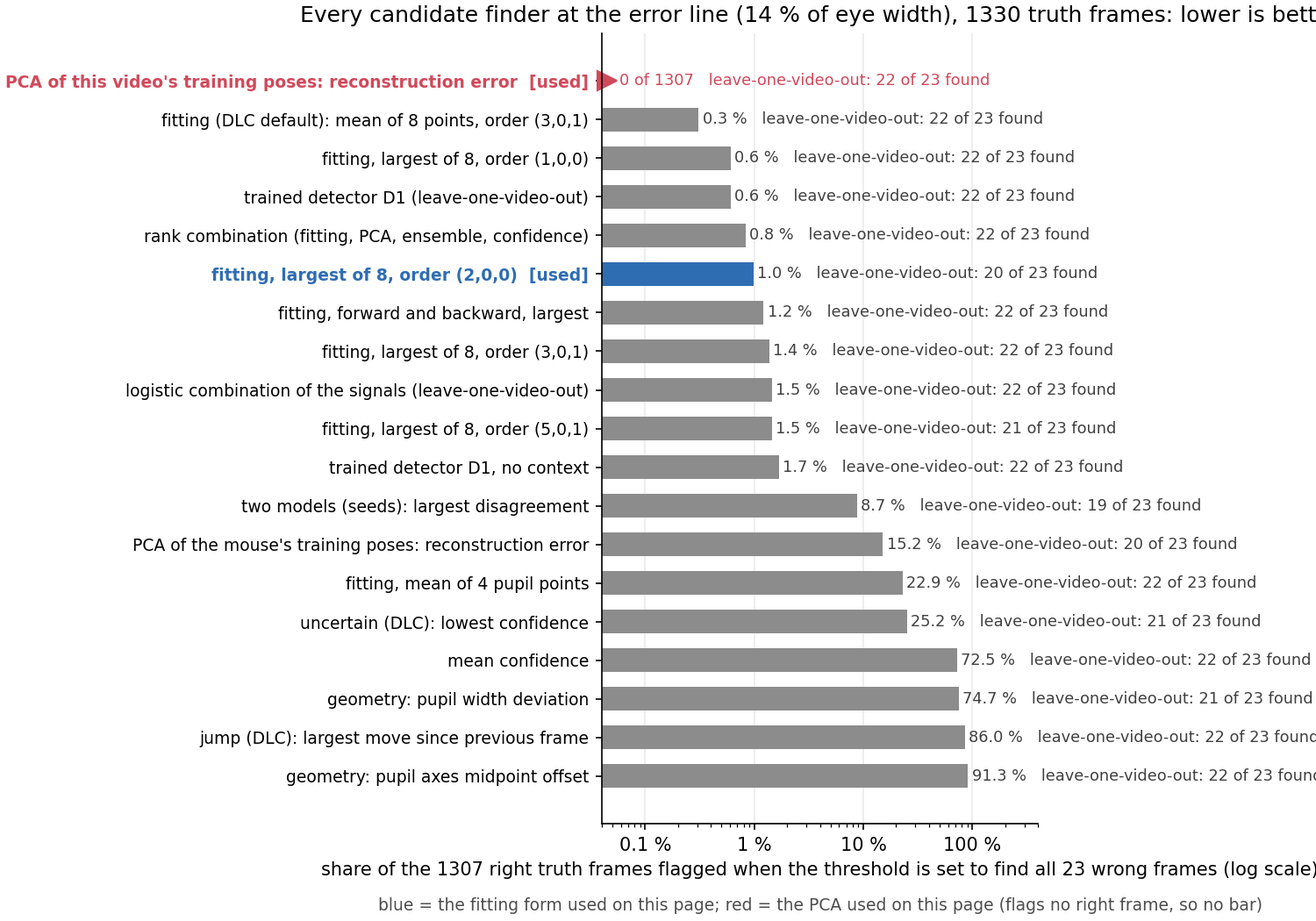
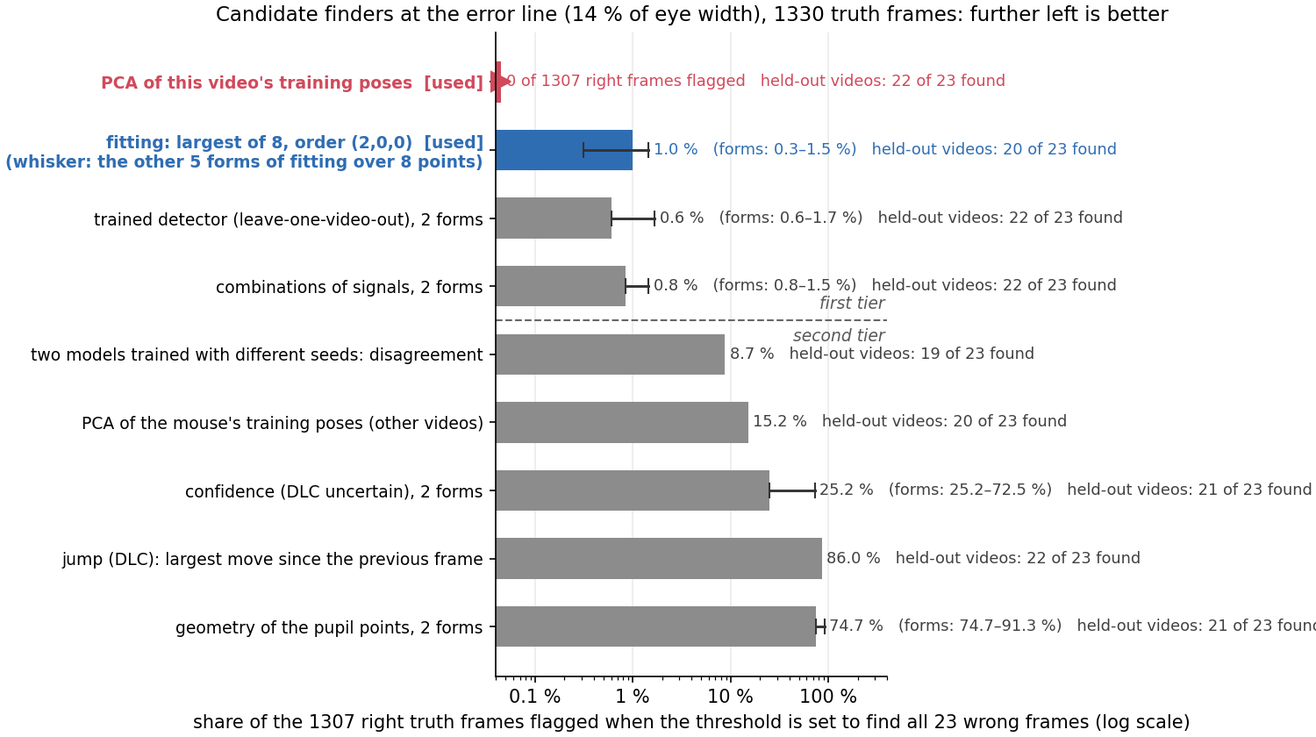
Page 9.2: one row per family of signals, two tiers, one storyline

Changed region(s): [[0.0, 0.0619, 1.0, 0.9905], [0.1533, 0.0, 1.0, 0.031]]

diff --git a/report/index.html b/report/index.html
@@ -78,7 +78,7 @@ math[display="block"]{margin:10px 0 6px;text-align:left;overflow-x:auto;max-widt
 
 <header>
   <h1><span lang="zh">小鼠眼睛关键点追踪：做了什么，结果是什么</span><span lang="en">Mouse eye keypoint tracking: what was done and what came out</span></h1>
-  <p class="muted small">Zhiheng Li (University of Minnesota), Kaiwen Sheng (Stanford) · <span lang="zh">页面生成时间</span><span lang="en">page built</span> 2026-10-31 14:08 · <a href="https://github.com/ZhihengLi0/mouse-behavior-tracking">GitHub: ZhihengLi0/mouse-behavior-tracking</a></p>
+  <p class="muted small">Zhiheng Li (University of Minnesota), Kaiwen Sheng (Stanford) · <span lang="zh">页面生成时间</span><span lang="en">page built</span> 2026-10-31 14:13 · <a href="https://github.com/ZhihengLi0/mouse-behavior-tracking">GitHub: ZhihengLi0/mouse-behavior-tracking</a></p>
 
   <div class="text" lang="zh">
     <p><b>任务：</b>用 DeepLabCut 在小鼠眼睛视频的每一帧上找 8 个点：瞳孔上、下、左、右，上眼睑、下眼睑，鼻侧眼角、颞侧眼角。由这 8 个点得到瞳孔大小、眼睛睁开程度和眨眼，之后与脑记录对齐。</p>
@@ -1096,7 +1096,7 @@ math[display="block"]{margin:10px 0 6px;text-align:left;overflow-x:auto;max-widt
 
   <h3><span lang="zh">9.2 找错帧：fitting 看时间上的突变，PCA 看形状上的异常，两者互补</span><span lang="en">9.2 Finding wrong frames: fitting sees jumps in time, the PCA sees implausible shapes, the two complement each other</span></h3>
   <div class="text" lang="zh">
-    <p>找错帧的信号只看模型的预测，给每一帧一个数，超过阈值就标出这一帧。比过的候选有 DeepLabCut 自带的三种算法和它们的变体、两个随机种子模型的分歧、几何量、姿态的主成分重建误差（PCA）、用真值帧训练的检测器。在 14% 的线上，fitting 一族和 PCA 都能找全 23 帧错帧，代价只是 1307 帧对的帧里的十几帧，其余信号差一个量级（图 9-3）。本页保留两个：fitting 和 PCA。</p>
+    <p>找错帧的信号只看模型的预测，给每一帧一个数，超过阈值就标出这一帧。把能想到的候选都在 14% 的线上比了一遍（图 9-3），分成两档：fitting、PCA、用真值训练的检测器和信号组合都能找全 23 帧错帧，误标的对帧不超过 1307 帧里的十几帧，彼此分不出高下；置信度、jump、几何量、双模型分歧误标多一个量级。第一档里只取不需要训练、不需要组合的两个：fitting 看时间上的突变，PCA 看形状上的异常。</p>
     <ol>
       <li><b>jump：</b>8 个点里相对上一帧移动最远的点的位移，除以眼宽。</li>
       <li><b>uncertain：</b>8 个点里最低的置信度。</li>
@@ -1106,7 +1106,7 @@ math[display="block"]{margin:10px 0 6px;text-align:left;overflow-x:auto;max-widt
     </ol>
   </div>
   <div class="text" lang="en">
-    <p>A finder looks only at the model's predictions, gives every frame one number and flags the frame when the number crosses a threshold. The candidates compared: DeepLabCut's three algorithms and their variants, the disagreement of two models trained with different seeds, geometric quantities, the PCA reconstruction error of the pose, and detectors trained on the truth frames. At the 14% line the fitting family and the PCA all find every one of the 23 wrong frames at the cost of a dozen of the 1307 right frames; the other signals are an order of magnitude behind (Figure 9-3). Two are kept: fitting and the PCA.</p>
+    <p>A finder looks only at the model's predictions, gives every frame one number and flags the frame when the number crosses a threshold. Every candidate we could think of was compared at the 14% line (Figure 9-3) and they fall into two tiers: fitting, the PCA, detectors trained on the truth frames and combinations of signals all find the 23 wrong frames while flagging at most a dozen of the 1307 right frames, and cannot be ranked among themselves; confidence, jump, geometry and two-model disagreement flag an order of magnitude more. Of the first tier the two that need no training and no combination are used: fitting sees jumps in time, the PCA sees implausible shapes.</p>
     <ol>
       <li><b>jump:</b> the displacement of the point that moved farthest since the previous frame, divided by the eye width.</li>
       <li><b>uncertain:</b> the lowest confidence of the 8 points.</li>
@@ -1117,8 +1117,8 @@ math[display="block"]{margin:10px 0 6px;text-align:left;overflow-x:auto;max-widt
   </div>
   <figure>
     <div class="figbox wide"><img src="assets/fig_finders_all_signals.png" alt="Every candidate finder at the error line: share of right truth frames flagged when all 23 wrong frames are found"></div>
-    <figcaption lang="zh"><span class="tag">图 9-3：</span>比过的每一种信号，阈值定到刚好找全 23 帧错帧时，1307 帧对的帧里被标出的比例（对数刻度），越靠左越好；右侧文字是轮流留出一个视频、用其余 18 个定阈值时找到的错帧数。蓝 = 本页用的 fitting 形式，红 = 本页用的 PCA，它一帧都不误标，所以没有柱子，只有一个标记。</figcaption>
-    <figcaption lang="en"><span class="tag">Figure 9-3:</span>Every signal compared: the share of the 1307 right truth frames flagged when its threshold is set to find all 23 wrong frames (log scale), further left is better; the text gives the wrong frames found when each video is held out in turn and the threshold set on the other 18. Blue = the fitting form used on this page, red = the PCA used on this page; it flags no right frame, so it has a marker instead of a bar.</figcaption>
+    <figcaption lang="zh"><span class="tag">图 9-3：</span>候选信号按族各一行，阈值定到刚好找全 23 帧错帧时，1307 帧对的帧里被标出的比例（对数刻度），越靠左越好；短横线是同一族其他形式的范围，右侧文字是轮流留出一个视频时找到的错帧数。虚线上方是第一档。红 = 本页用的 PCA，一帧对帧都不误标，所以只有标记没有柱子；蓝 = 本页用的 fitting 形式。</figcaption>
+    <figcaption lang="en"><span class="tag">Figure 9-3:</span>Candidate signals, one row per family: the share of the 1307 right truth frames flagged when the threshold is set to find all 23 wrong frames (log scale), further left is better; the whisker spans the other forms of the family, the text gives the wrong frames found with each video held out in turn. Above the dashed line is the first tier. Red = the PCA used on this page, which flags no right frame and so has a marker instead of a bar; blue = the fitting form used on this page.</figcaption>
   </figure>
   <figure>
     <div class="figbox wide"><img src="assets/fig_finders_share.png" alt="Share of every frame flagged by fitting and by the PCA, per video"></div>
@@ -1137,22 +1137,22 @@ math[display="block"]{margin:10px 0 6px;text-align:left;overflow-x:auto;max-widt
   </figure>
   <div class="concl" lang="zh"><span class="tag">找错帧的结论：</span>fitting 和 PCA 都能找全错帧，但找到的不是同一批，两者互补；fitting 为主，PCA 为补。
     <ol>
-      <li>第一梯队（图 9-3）：阈值定到刚好找全 23 帧时，PCA 误标 0 帧，fitting 的平均形式 4 帧，本页用的最大值形式 13 帧，用真值训练的检测器 8 帧；双模型分歧、置信度、jump、几何量差一个量级。23 帧错帧分不出这几种的高下。</li>
+      <li>两档（图 9-3）：第一档找全 23 帧时误标的对帧都在十几帧以内，23 帧错帧分不出它们的高下；第二档误标多一个量级。fitting 用取最大值的形式，是因为它量的就是"一个点偏了多少"，阈值可以直接用线。</li>
       <li>fitting，阈值 = 线：23 帧全部找到，1307 帧对的帧标出 28 帧；轮流留出一个视频每轮都全部找到；整段视频标出 3.8% 的帧（图 9-4）。被标出的对的帧多是眼睛快速移动、预报跟不上的帧。</li>
       <li>PCA，阈值 = 中位数的 3.9 倍：23 帧全部找到，对的帧标出 14 帧；留一视频每轮全部找到；整段视频标出 2.4%。</li>
       <li>意见不同的帧（图 9-5）：只有 PCA 标的 70 帧里 39 帧真错，错法几乎都是四个瞳孔点缩成一团停在瞳孔旁边、一连多帧如此，点没有跳，fitting 看不见；只有 fitting 标的 75 帧里 8 帧真错，其余是眼睛快动时的误报。两者都标的帧没有单独核对。</li>
       <li>PCA 的依赖（图 9-6）：需要本视频的训练标注；标注 20 帧以后底噪稳定；训练标注里没出现过的正常姿态会被整段标出，视频 18 的眯眼帧就是，用中位数倍数做阈值才压下来。fitting 没有这两层依赖，换视频、换相机阈值的意思不变。</li>
-      <li>更早的尝试记录在 <code>results/unreliable_frames_sweep/</code>、<code>results/error_detector/</code>、<code>results/finder_comparison/</code>，网页不再展开。</li>
+      <li>全部比较的记录在 <code>results/finder_comparison/</code>。</li>
     </ol>
   </div>
   <div class="concl" lang="en"><span class="tag">Conclusion on finding:</span>fitting and the PCA both find every wrong frame, but not the same ones, and complement each other; fitting is the main signal, the PCA the complement.
     <ol>
-      <li>The first tier (Figure 9-3): with the threshold set to just find all 23 frames the PCA flags 0 right frames, the mean form of fitting 4, the largest-of-8 form used here 13, the detector trained on the truth 8; two-model disagreement, confidence, jump and the geometric quantities are an order of magnitude behind. 23 wrong frames cannot rank these few.</li>
+      <li>Two tiers (Figure 9-3): the first tier finds all 23 frames while flagging at most a dozen right frames, and 23 wrong frames cannot rank its members; the second tier flags an order of magnitude more. Fitting is used in its largest-of-8 form because that form measures exactly how far one point strayed, so the line itself can be its threshold.</li>
       <li>Fitting, threshold = the line: all 23 found, 28 of the 1307 right frames flagged; every held-out video finds all of them; 3.8% of all frames flagged on the whole videos (Figure 9-4). The flagged right frames are mostly frames in which the eye moved fast and the prediction lagged.</li>
       <li>The PCA, threshold = 3.9 × the median: all 23 found, 14 right frames flagged; every held-out video finds all of them; 2.4% of all frames flagged.</li>
       <li>Frames the two disagree on (Figure 9-5): of 70 flagged by the PCA alone 39 are really wrong, almost all in one way, the four pupil points bunched beside the pupil for many frames in a row, no jump, invisible to fitting; of 75 flagged by fitting alone 8 are wrong, the rest false alarms from fast eye movements. Frames flagged by both were not checked separately.</li>
       <li>What the PCA depends on (Figure 9-6): the video's own training labels; the background settles after 20 labels; a normal pose absent from the training labels is flagged wholesale, as the narrowed-eye frames of video 18 are, and only the median-multiple threshold brings that down. Fitting has neither dependence, its threshold means the same on another video or camera.</li>
-      <li>Earlier attempts are recorded in <code>results/unreliable_frames_sweep/</code>, <code>results/error_detector/</code> and <code>results/finder_comparison/</code> and are not repeated here.</li>
+      <li>The record of every comparison is in <code>results/finder_comparison/</code>.</li>
     </ol>
   </div>
 

diff --git a/report/template.html b/report/template.html
@@ -988,7 +988,7 @@ math[display="block"]{margin:10px 0 6px;text-align:left;overflow-x:auto;max-widt
 
   <h3><span lang="zh">9.2 找错帧：fitting 看时间上的突变，PCA 看形状上的异常，两者互补</span><span lang="en">9.2 Finding wrong frames: fitting sees jumps in time, the PCA sees implausible shapes, the two complement each other</span></h3>
   <div class="text" lang="zh">
-    <p>找错帧的信号只看模型的预测，给每一帧一个数，超过阈值就标出这一帧。比过的候选有 DeepLabCut 自带的三种算法和它们的变体、两个随机种子模型的分歧、几何量、姿态的主成分重建误差（PCA）、用真值帧训练的检测器。在 14% 的线上，fitting 一族和 PCA 都能找全 23 帧错帧，代价只是 1307 帧对的帧里的十几帧，其余信号差一个量级（图 9-3）。本页保留两个：fitting 和 PCA。</p>
+    <p>找错帧的信号只看模型的预测，给每一帧一个数，超过阈值就标出这一帧。把能想到的候选都在 14% 的线上比了一遍（图 9-3），分成两档：fitting、PCA、用真值训练的检测器和信号组合都能找全 23 帧错帧，误标的对帧不超过 1307 帧里的十几帧，彼此分不出高下；置信度、jump、几何量、双模型分歧误标多一个量级。第一档里只取不需要训练、不需要组合的两个：fitting 看时间上的突变，PCA 看形状上的异常。</p>
     <ol>
       <li><b>jump：</b>8 个点里相对上一帧移动最远的点的位移，除以眼宽。</li>
       <li><b>uncertain：</b>8 个点里最低的置信度。</li>
@@ -998,7 +998,7 @@ math[display="block"]{margin:10px 0 6px;text-align:left;overflow-x:auto;max-widt
     </ol>
   </div>
   <div class="text" lang="en">
-    <p>A finder looks only at the model's predictions, gives every frame one number and flags the frame when the number crosses a threshold. The candidates compared: DeepLabCut's three algorithms and their variants, the disagreement of two models trained with different seeds, geometric quantities, the PCA reconstruction error of the pose, and detectors trained on the truth frames. At the 14% line the fitting family and the PCA all find every one of the 23 wrong frames at the cost of a dozen of the 1307 right frames; the other signals are an order of magnitude behind (Figure 9-3). Two are kept: fitting and the PCA.</p>
+    <p>A finder looks only at the model's predictions, gives every frame one number and flags the frame when the number crosses a threshold. Every candidate we could think of was compared at the 14% line (Figure 9-3) and they fall into two tiers: fitting, the PCA, detectors trained on the truth frames and combinations of signals all find the 23 wrong frames while flagging at most a dozen of the 1307 right frames, and cannot be ranked among themselves; confidence, jump, geometry and two-model disagreement flag an order of magnitude more. Of the first tier the two that need no training and no combination are used: fitting sees jumps in time, the PCA sees implausible shapes.</p>
     <ol>
       <li><b>jump:</b> the displacement of the point that moved farthest since the previous frame, divided by the eye width.</li>
       <li><b>uncertain:</b> the lowest confidence of the 8 points.</li>
@@ -1009,8 +1009,8 @@ math[display="block"]{margin:10px 0 6px;text-align:left;overflow-x:auto;max-widt
   </div>
   <figure>
     <div class="figbox wide"><img src="assets/fig_finders_all_signals.png" alt="Every candidate finder at the error line: share of right truth frames flagged when all 23 wrong frames are found"></div>
-    <figcaption lang="zh"><span class="tag">图 9-3：</span>比过的每一种信号，阈值定到刚好找全 23 帧错帧时，1307 帧对的帧里被标出的比例（对数刻度），越靠左越好；右侧文字是轮流留出一个视频、用其余 18 个定阈值时找到的错帧数。蓝 = 本页用的 fitting 形式，红 = 本页用的 PCA，它一帧都不误标，所以没有柱子，只有一个标记。</figcaption>
-    <figcaption lang="en"><span class="tag">Figure 9-3:</span>Every signal compared: the share of the 1307 right truth frames flagged when its threshold is set to find all 23 wrong frames (log scale), further left is better; the text gives the wrong frames found when each video is held out in turn and the threshold set on the other 18. Blue = the fitting form used on this page, red = the PCA used on this page; it flags no right frame, so it has a marker instead of a bar.</figcaption>
+    <figcaption lang="zh"><span class="tag">图 9-3：</span>候选信号按族各一行，阈值定到刚好找全 23 帧错帧时，1307 帧对的帧里被标出的比例（对数刻度），越靠左越好；短横线是同一族其他形式的范围，右侧文字是轮流留出一个视频时找到的错帧数。虚线上方是第一档。红 = 本页用的 PCA，一帧对帧都不误标，所以只有标记没有柱子；蓝 = 本页用的 fitting 形式。</figcaption>
+    <figcaption lang="en"><span class="tag">Figure 9-3:</span>Candidate signals, one row per family: the share of the 1307 right truth frames flagged when the threshold is set to find all 23 wrong frames (log scale), further left is better; the whisker spans the other forms of the family, the text gives the wrong frames found with each video held out in turn. Above the dashed line is the first tier. Red = the PCA used on this page, which flags no right frame and so has a marker instead of a bar; blue = the fitting form used on this page.</figcaption>
   </figure>
   <figure>
     <div class="figbox wide"><img src="assets/fig_finders_share.png" alt="Share of every frame flagged by fitting and by the PCA, per video"></div>
@@ -1029,22 +1029,22 @@ math[display="block"]{margin:10px 0 6px;text-align:left;overflow-x:auto;max-widt
   </figure>
   <div class="concl" lang="zh"><span class="tag">找错帧的结论：</span>fitting 和 PCA 都能找全错帧，但找到的不是同一批，两者互补；fitting 为主，PCA 为补。
     <ol>
-      <li>第一梯队（图 9-3）：阈值定到刚好找全 23 帧时，PCA 误标 0 帧，fitting 的平均形式 4 帧，本页用的最大值形式 13 帧，用真值训练的检测器 8 帧；双模型分歧、置信度、jump、几何量差一个量级。23 帧错帧分不出这几种的高下。</li>
+      <li>两档（图 9-3）：第一档找全 23 帧时误标的对帧都在十几帧以内，23 帧错帧分不出它们的高下；第二档误标多一个量级。fitting 用取最大值的形式，是因为它量的就是"一个点偏了多少"，阈值可以直接用线。</li>
       <li>fitting，阈值 = 线：23 帧全部找到，1307 帧对的帧标出 28 帧；轮流留出一个视频每轮都全部找到；整段视频标出 3.8% 的帧（图 9-4）。被标出的对的帧多是眼睛快速移动、预报跟不上的帧。</li>
       <li>PCA，阈值 = 中位数的 3.9 倍：23 帧全部找到，对的帧标出 14 帧；留一视频每轮全部找到；整段视频标出 2.4%。</li>
       <li>意见不同的帧（图 9-5）：只有 PCA 标的 70 帧里 39 帧真错，错法几乎都是四个瞳孔点缩成一团停在瞳孔旁边、一连多帧如此，点没有跳，fitting 看不见；只有 fitting 标的 75 帧里 8 帧真错，其余是眼睛快动时的误报。两者都标的帧没有单独核对。</li>
       <li>PCA 的依赖（图 9-6）：需要本视频的训练标注；标注 20 帧以后底噪稳定；训练标注里没出现过的正常姿态会被整段标出，视频 18 的眯眼帧就是，用中位数倍数做阈值才压下来。fitting 没有这两层依赖，换视频、换相机阈值的意思不变。</li>
-      <li>更早的尝试记录在 <code>results/unreliable_frames_sweep/</code>、<code>results/error_detector/</code>、<code>results/finder_comparison/</code>，网页不再展开。</li>
+      <li>全部比较的记录在 <code>results/finder_comparison/</code>。</li>
     </ol>
   </div>
   <div class="concl" lang="en"><span class="tag">Conclusion on finding:</span>fitting and the PCA both find every wrong frame, but not the same ones, and complement each other; fitting is the main signal, the PCA the complement.
     <ol>
-      <li>The first tier (Figure 9-3): with the threshold set to just find all 23 frames the PCA flags 0 right frames, the mean form of fitting 4, the largest-of-8 form used here 13, the detector trained on the truth 8; two-model disagreement, confidence, jump and the geometric quantities are an order of magnitude behind. 23 wrong frames cannot rank these few.</li>
+      <li>Two tiers (Figure 9-3): the first tier finds all 23 frames while flagging at most a dozen right frames, and 23 wrong frames cannot rank its members; the second tier flags an order of magnitude more. Fitting is used in its largest-of-8 form because that form measures exactly how far one point strayed, so the line itself can be its threshold.</li>
       <li>Fitting, threshold = the line: all 23 found, 28 of the 1307 right frames flagged; every held-out video finds all of them; 3.8% of all frames flagged on the whole videos (Figure 9-4). The flagged right frames are mostly frames in which the eye moved fast and the prediction lagged.</li>
       <li>The PCA, threshold = 3.9 × the median: all 23 found, 14 right frames flagged; every held-out video finds all of them; 2.4% of all frames flagged.</li>
       <li>Frames the two disagree on (Figure 9-5): of 70 flagged by the PCA alone 39 are really wrong, almost all in one way, the four pupil points bunched beside the pupil for many frames in a row, no jump, invisible to fitting; of 75 flagged by fitting alone 8 are wrong, the rest false alarms from fast eye movements. Frames flagged by both were not checked separately.</li>
       <li>What the PCA depends on (Figure 9-6): the video's own training labels; the background settles after 20 labels; a normal pose absent from the training labels is flagged wholesale, as the narrowed-eye frames of video 18 are, and only the median-multiple threshold brings that down. Fitting has neither dependence, its threshold means the same on another video or camera.</li>
-      <li>Earlier attempts are recorded in <code>results/unreliable_frames_sweep/</code>, <code>results/error_detector/</code> and <code>results/finder_comparison/</code> and are not repeated here.</li>
+      <li>The record of every comparison is in <code>results/finder_comparison/</code>.</li>
     </ol>
   </div>
 

diff --git a/report/index_en.html b/report/index_en.html
@@ -75,7 +75,7 @@ math[display="block"]{margin:10px 0 6px;text-align:left;overflow-x:auto;max-widt
 
 <header>
   <h1><span lang="en">Mouse eye keypoint tracking: what was done and what came out</span></h1>
-  <p class="muted small">Zhiheng Li (University of Minnesota), Kaiwen Sheng (Stanford) · <span lang="en">page built</span> 2026-10-31 14:08 · <a href="https://github.com/ZhihengLi0/mouse-behavior-tracking">GitHub: ZhihengLi0/mouse-behavior-tracking</a></p>
+  <p class="muted small">Zhiheng Li (University of Minnesota), Kaiwen Sheng (Stanford) · <span lang="en">page built</span> 2026-10-31 14:13 · <a href="https://github.com/ZhihengLi0/mouse-behavior-tracking">GitHub: ZhihengLi0/mouse-behavior-tracking</a></p>
 
   
   <div class="text" lang="en">
@@ -852,7 +852,7 @@ math[display="block"]{margin:10px 0 6px;text-align:left;overflow-x:auto;max-widt
   <h3><span lang="en">9.2 Finding wrong frames: fitting sees jumps in time, the PCA sees implausible shapes, the two complement each other</span></h3>
   
   <div class="text" lang="en">
-    <p>A finder looks only at the model's predictions, gives every frame one number and flags the frame when the number crosses a threshold. The candidates compared: DeepLabCut's three algorithms and their variants, the disagreement of two models trained with different seeds, geometric quantities, the PCA reconstruction error of the pose, and detectors trained on the truth frames. At the 14% line the fitting family and the PCA all find every one of the 23 wrong frames at the cost of a dozen of the 1307 right frames; the other signals are an order of magnitude behind (Figure 9-3). Two are kept: fitting and the PCA.</p>
+    <p>A finder looks only at the model's predictions, gives every frame one number and flags the frame when the number crosses a threshold. Every candidate we could think of was compared at the 14% line (Figure 9-3) and they fall into two tiers: fitting, the PCA, detectors trained on the truth frames and combinations of signals all find the 23 wrong frames while flagging at most a dozen of the 1307 right frames, and cannot be ranked among themselves; confidence, jump, geometry and two-model disagreement flag an order of magnitude more. Of the first tier the two that need no training and no combination are used: fitting sees jumps in time, the PCA sees implausible shapes.</p>
     <ol>
       <li><b>jump:</b> the displacement of the point that moved farthest since the previous frame, divided by the eye width.</li>
       <li><b>uncertain:</b> the lowest confidence of the 8 points.</li>
@@ -864,7 +864,7 @@ math[display="block"]{margin:10px 0 6px;text-align:left;overflow-x:auto;max-widt
   <figure>
     <div class="figbox wide"><img src="assets/fig_finders_all_signals.png" alt="Every candidate finder at the error line: share of right truth frames flagged when all 23 wrong frames are found"></div>
     
-    <figcaption lang="en"><span class="tag">Figure 9-3:</span>Every signal compared: the share of the 1307 right truth frames flagged when its threshold is set to find all 23 wrong frames (log scale), further left is better; the text gives the wrong frames found when each video is held out in turn and the threshold set on the other 18. Blue = the fitting form used on this page, red = the PCA used on this page; it flags no right frame, so it has a marker instead of a bar.</figcaption>
+    <figcaption lang="en"><span class="tag">Figure 9-3:</span>Candidate signals, one row per family: the share of the 1307 right truth frames flagged when the threshold is set to find all 23 wrong frames (log scale), further left is better; the whisker spans the other forms of the family, the text gives the wrong frames found with each video held out in turn. Above the dashed line is the first tier. Red = the PCA used on this page, which flags no right frame and so has a marker instead of a bar; blue = the fitting form used on this page.</figcaption>
   </figure>
   <figure>
     <div class="figbox wide"><img src="assets/fig_finders_share.png" alt="Share of every frame flagged by fitting and by the PCA, per video"></div>
@@ -884,12 +884,12 @@ math[display="block"]{margin:10px 0 6px;text-align:left;overflow-x:auto;max-widt
   
   <div class="concl" lang="en"><span class="tag">Conclusion on finding:</span>fitting and the PCA both find every wrong frame, but not the same ones, and complement each other; fitting is the main signal, the PCA the complement.
     <ol>
-      <li>The first tier (Figure 9-3): with the threshold set to just find all 23 frames the PCA flags 0 right frames, the mean form of fitting 4, the largest-of-8 form used here 13, the detector trained on the truth 8; two-model disagreement, confidence, jump and the geometric quantities are an order of magnitude behind. 23 wrong frames cannot rank these few.</li>
+      <li>Two tiers (Figure 9-3): the first tier finds all 23 frames while flagging at most a dozen right frames, and 23 wrong frames cannot rank its members; the second tier flags an order of magnitude more. Fitting is used in its largest-of-8 form because that form measures exactly how far one point strayed, so the line itself can be its threshold.</li>
       <li>Fitting, threshold = the line: all 23 found, 28 of the 1307 right frames flagged; every held-out video finds all of them; 3.8% of all frames flagged on the whole videos (Figure 9-4). The flagged right frames are mostly frames in which the eye moved fast and the prediction lagged.</li>
       <li>The PCA, threshold = 3.9 × the median: all 23 found, 14 right frames flagged; every held-out video finds all of them; 2.4% of all frames flagged.</li>
       <li>Frames the two disagree on (Figure 9-5): of 70 flagged by the PCA alone 39 are really wrong, almost all in one way, the four pupil points bunched beside the pupil for many frames in a row, no jump, invisible to fitting; of 75 flagged by fitting alone 8 are wrong, the rest false alarms from fast eye movements. Frames flagged by both were not checked separately.</li>
       <li>What the PCA depends on (Figure 9-6): the video's own training labels; the background settles after 20 labels; a normal pose absent from the training labels is flagged wholesale, as the narrowed-eye frames of video 18 are, and only the median-multiple threshold brings that down. Fitting has neither dependence, its threshold means the same on another video or camera.</li>
-      <li>Earlier attempts are recorded in <code>results/unreliable_frames_sweep/</code>, <code>results/error_detector/</code> and <code>results/finder_comparison/</code> and are not repeated here.</li>
+      <li>The record of every comparison is in <code>results/finder_comparison/</code>.</li>
     </ol>
   </div>
 

diff --git a/v2_new_pupil_top_video_scaling/scripts/finder_comparison.py b/v2_new_pupil_top_video_scaling/scripts/finder_comparison.py
@@ -92,34 +92,64 @@ def truth_table():
 
 
 def fig_signals(T):
+    """One row per family of signals; the form used on the page gives the bar, the other forms of the family the whisker."""
     import matplotlib
     matplotlib.use("Agg")
     import matplotlib.pyplot as plt
-    T = T.iloc[::-1].reset_index(drop=True)
-    fig, ax = plt.subplots(figsize=(10, 7), constrained_layout=True)
-    x = 100 * T.good_flagged_share.clip(lower=0.0004)
-    used_pca = T.signal.str.startswith("PCA of this video")
-    cols = ["#2f6db3" if "[used]" in s else "#d1495b" if s.startswith("PCA of this video") else "0.55" for s in T.signal]
-    ax.barh(T.index, x, color=cols, height=0.62)
-    for i, r in T.iterrows():
-        if used_pca[i]:
-            ax.plot(0.045, i, marker=">", color="#d1495b", ms=11, clip_on=False)
-            ax.text(0.058, i, f"0 of 1307   leave-one-video-out: {r.lovo_caught} of 23 found", va="center", fontsize=8.5, color="#d1495b")
+    fam = [("PCA of this video's training poses  [used]", "PCA", lambda n: n.startswith("PCA of this video"), "#d1495b"),
+           ("fitting: largest of 8, order (2,0,0)  [used]\n(whisker: the other 5 forms of fitting over 8 points)", "fitting variant", lambda n: "[used]" in n, "#2f6db3"),
+           ("trained detector (leave-one-video-out), 2 forms", "trained detector", lambda n: n.startswith("trained detector D1 (leave"), "0.55"),
+           ("combinations of signals, 2 forms", "combination", lambda n: n.startswith("rank combination"), "0.55"),
+           ("two models trained with different seeds: disagreement", "ensemble", lambda n: n.startswith("two models"), "0.55"),
+           ("PCA of the mouse's training poses (other videos)", "PCA", lambda n: n.startswith("PCA of the mouse"), "0.55"),
+           ("confidence (DLC uncertain), 2 forms", "DeepLabCut", lambda n: n.startswith("uncertain"), "0.55"),
+           ("jump (DLC): largest move since the previous frame", "DeepLabCut", lambda n: n.startswith("jump"), "0.55"),
+           ("geometry of the pupil points, 2 forms", "geometry", lambda n: n.startswith("geometry"), "0.55")]
+    fig, ax = plt.subplots(figsize=(10, 5.6), constrained_layout=True)
+    labels = []
+    for i, (label, family, pick, col) in enumerate(fam):
+        main = T[T.signal.apply(pick)]
+        assert len(main) >= 1, label
+        group = T[(T.family == family)] if family in ("fitting variant", "trained detector", "combination", "geometry") else main
+        if family == "fitting variant":
+            group = T[T.signal.str.startswith("fitting") & ~T.signal.str.contains("4 pupil")]
+        if "confidence" in label:
+            group = T[T.signal.str.startswith("uncertain") | T.signal.str.startswith("mean confidence")]
+        r = main.iloc[0]
+        x = max(100 * r.good_flagged_share, 0.045)
+        ax.barh(i, x, color=col, height=0.6)
+        if r.good_flagged_share == 0:
+            ax.plot(0.045, i, marker=">", color=col, ms=11, clip_on=False)
+            txt = f"0 of 1307 right frames flagged"
         else:
-            ax.text(x[i] * 1.08, i, f"{100 * r.good_flagged_share:.1f} %   leave-one-video-out: {r.lovo_caught} of 23 found", va="center", fontsize=8.5, color="0.25")
-    ax.set_yticks(T.index)
-    ax.set_yticklabels([s + "  [used]" if u else s for s, u in zip(T.signal, used_pca)], fontsize=9)
+            txt = f"{100 * r.good_flagged_share:.1f} %"
+        if len(group) > 1:
+            lo, hi = 100 * group.good_flagged_share.min(), 100 * group.good_flagged_share.max()
+            ax.plot([max(lo, 0.045), hi], [i, i], color="0.2", lw=1.4)
+            ax.plot([max(lo, 0.045), hi], [i, i], "|", color="0.2", ms=9)
+            txt += f"   (forms: {lo:.1f}–{hi:.1f} %)"
+            xt = hi
+        else:
+            xt = x
+        txt += f"   held-out videos: {int(r.lovo_caught)} of 23 found"
+        ax.text(xt * 1.12, i, txt, va="center", fontsize=8.5, color=col if col != "0.55" else "0.25")
+        labels.append(label)
+    ax.set_yticks(range(len(fam)))
+    ax.set_yticklabels(labels, fontsize=9)
     for lab in ax.get_yticklabels():
         if "[used]" in lab.get_text():
             lab.set_color("#d1495b" if lab.get_text().startswith("PCA") else "#2f6db3")
             lab.set_fontweight("bold")
-    ax.text(0.5, -0.11, "blue = the fitting form used on this page; red = the PCA used on this page (flags no right frame, so no bar)", transform=ax.transAxes, ha="center", fontsize=9, color="0.3")
+    ax.invert_yaxis()
+    ax.axhline(3.5, color="0.4", lw=1, ls="--")
+    ax.text(380, 3.38, "first tier", ha="right", va="bottom", fontsize=9, color="0.35", style="italic")
+    ax.text(380, 3.62, "second tier", ha="right", va="top", fontsize=9, color="0.35", style="italic")
     ax.set_xscale("log")
     ax.set_xlim(0.04, 400)
     ax.set_xticks([0.1, 1, 10, 100])
     ax.set_xticklabels(["0.1 %", "1 %", "10 %", "100 %"])
     ax.set_xlabel("share of the 1307 right truth frames flagged when the threshold is set to find all 23 wrong frames (log scale)")
-    ax.set_title("Every candidate finder at the error line (14 % of eye width), 1330 truth frames: lower is better")
+    ax.set_title("Candidate finders at the error line (14 % of eye width), 1330 truth frames: further left is better", fontsize=11)
     ax.spines[["top", "right"]].set_visible(False)
     ax.grid(axis="x", color="0.92")
     ax.set_axisbelow(True)
